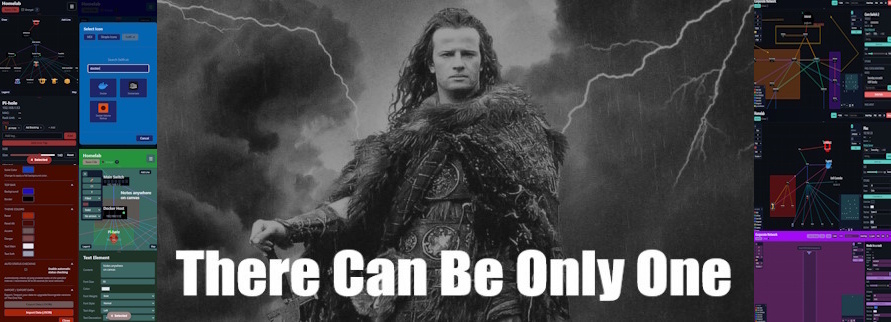
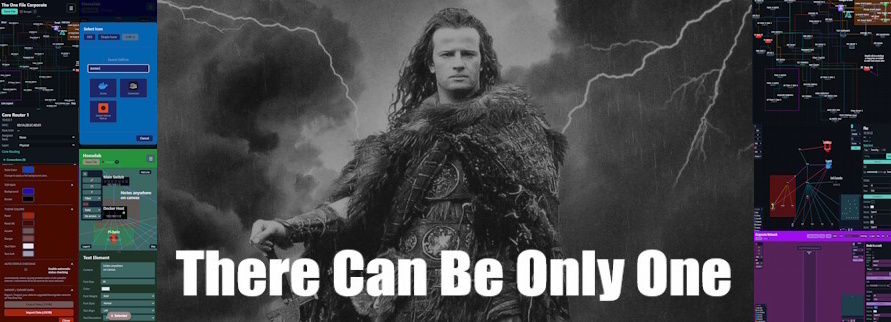
update assets and readme
update assets and readme

Changed region(s): [[0.8182, 0.0, 1.0, 0.3727], [0.0, 0.0, 0.0909, 0.528]]

diff --git a/README.md b/README.md
@@ -15,7 +15,7 @@ A fully self contained topology builder that runs anywhere as a single standalon
 
 #### Version 3.9.9.6 : 12/17/25 Stretching version numbers AND lines too!
   * We are very close to 4.0 Stable, community! Thank you to all the testers!!
-* **Orthogonal routing update** [changelog.md](changelog.md)
+* **Orthogonal routing update** [DEMO](https://therecanonlybe.one/demos/theonefile-networkening-corporate-demo.html) [changelog.md](changelog.md)
   * New orthogonal routing option draws clean 90 degree angle connections
   * Three routing styles available: Orthogonal, Curved, and Straight
   * Change between all of them in the settings at any time OR mix and match them   
